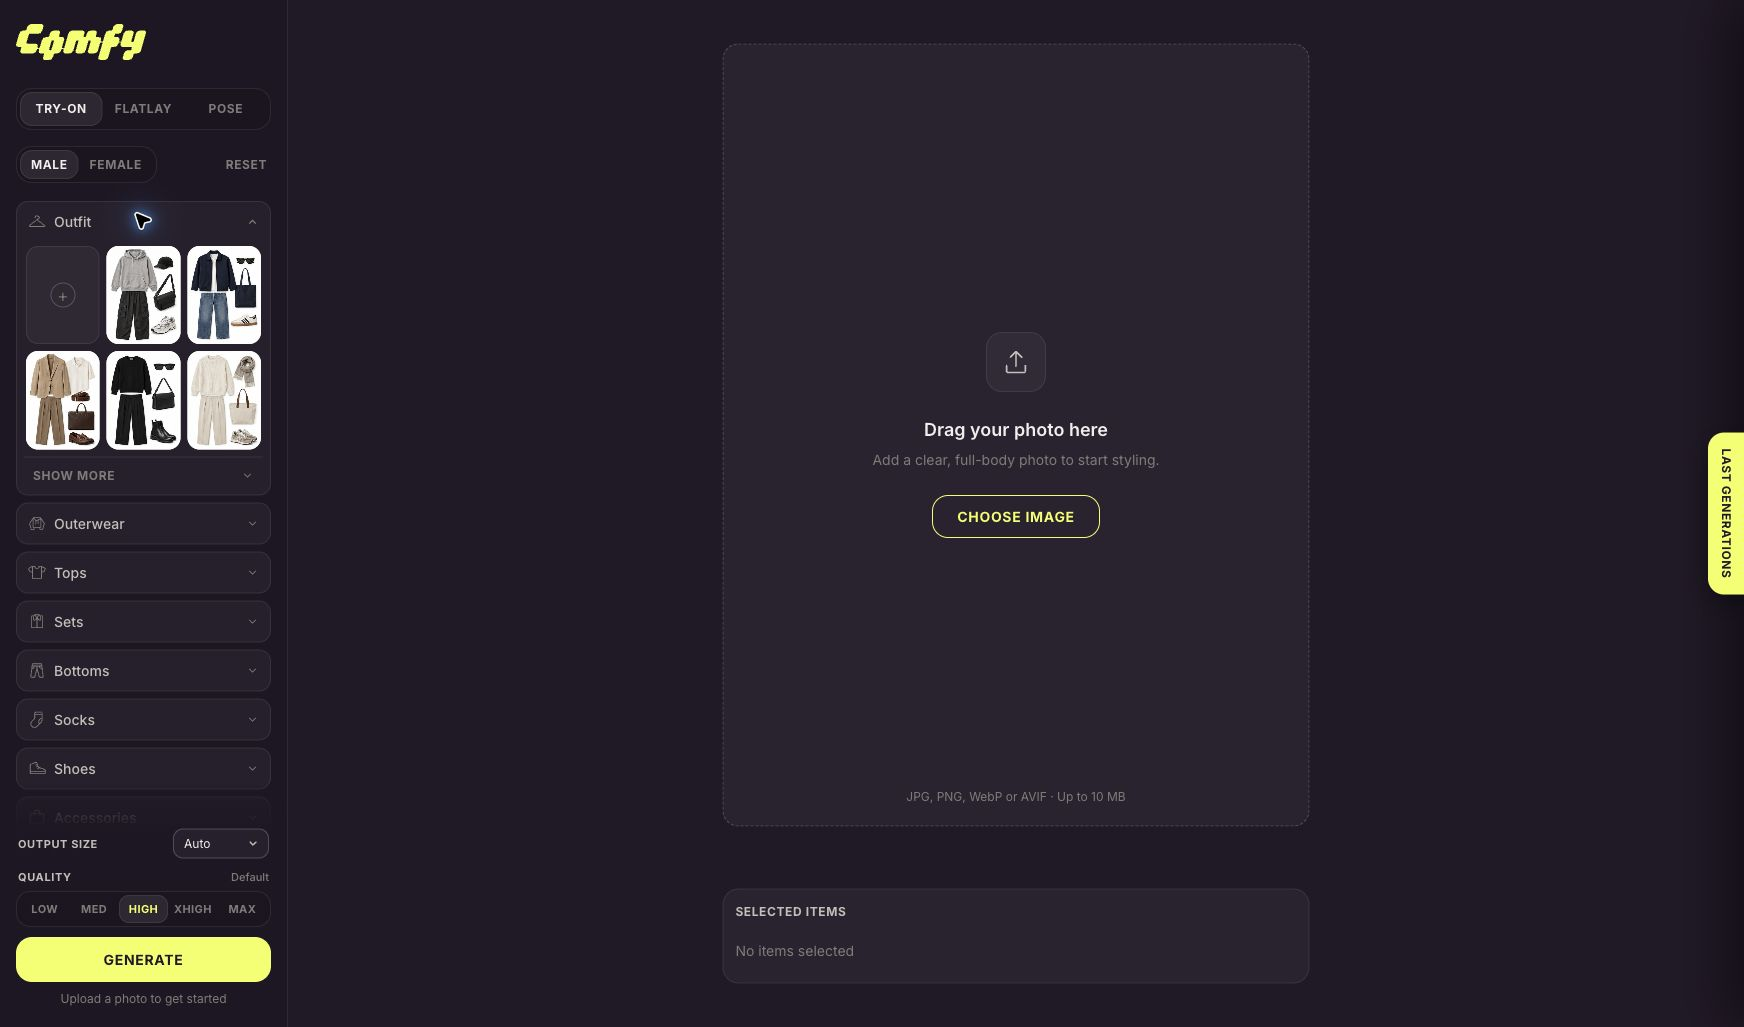
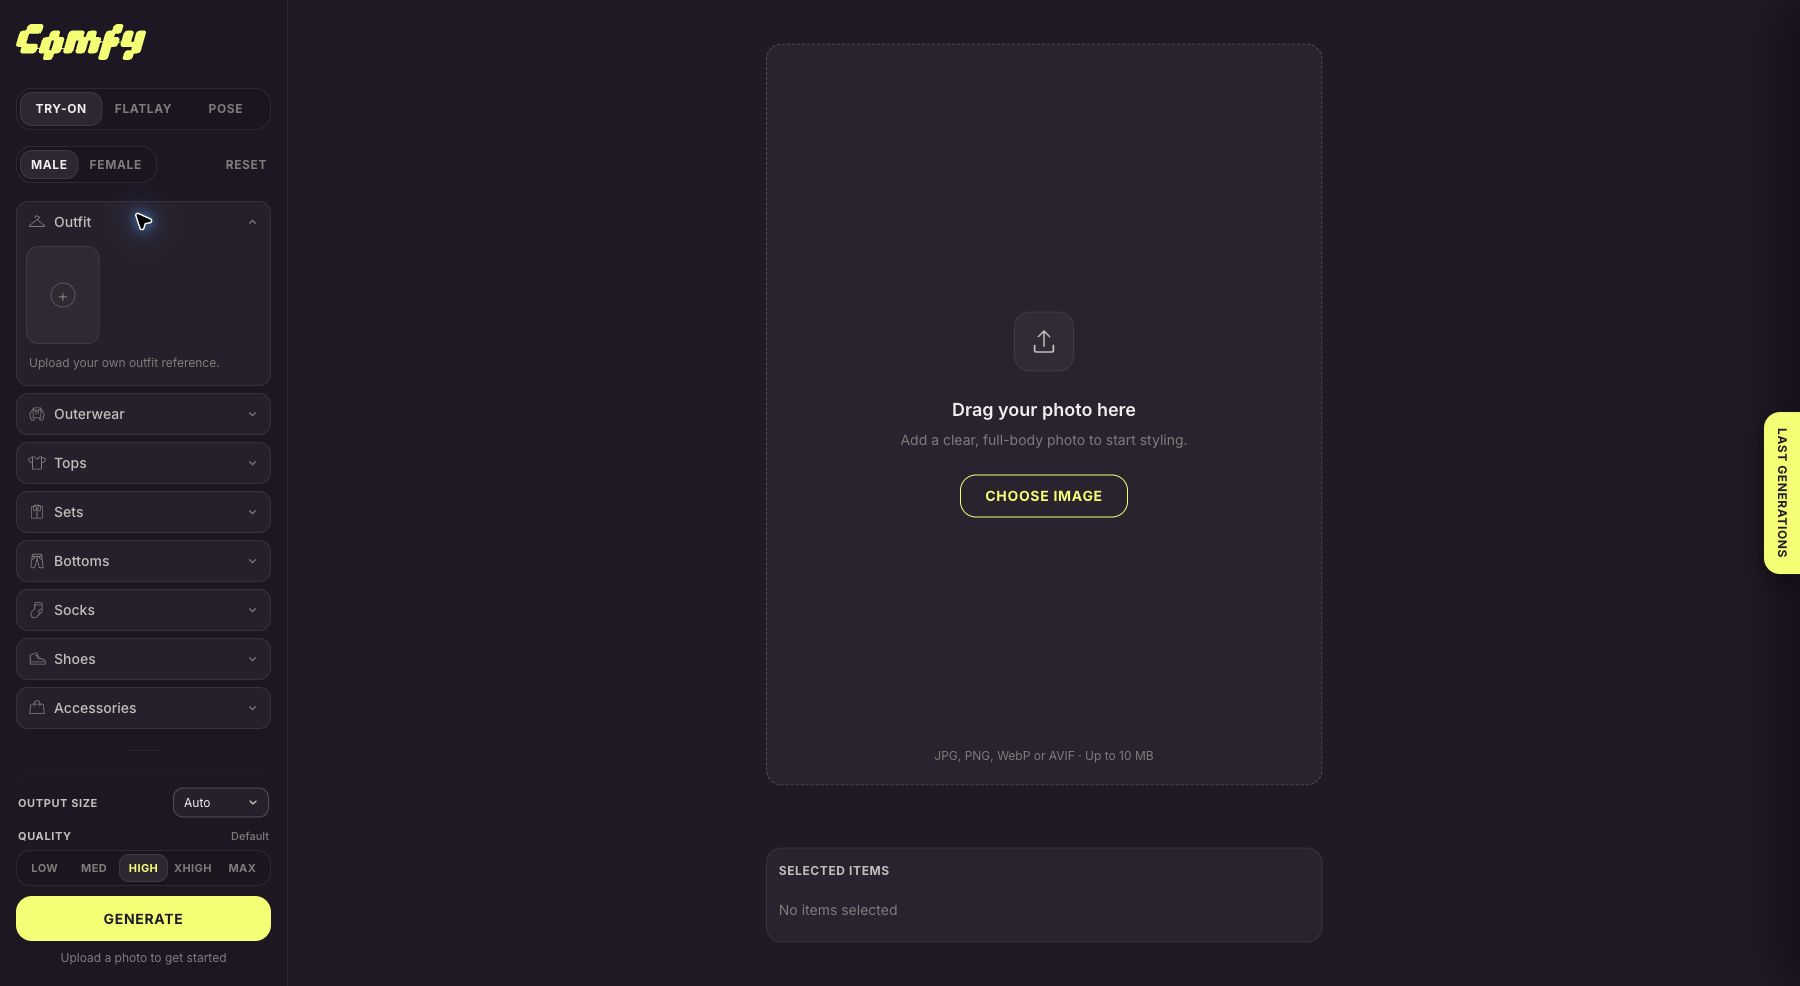
Remove bundled outfit images and keep user-uploaded references

diff --git a/src/components/sidebar.tsx b/src/components/sidebar.tsx
@@ -12,22 +12,16 @@ import styles from "./sidebar.module.css";
 import { stylingCategories as categories, type CategoryId } from "@/lib/styling-categories";
 import { POSES } from "@/lib/poses";
 
-const outfitNames = {
-  male: ["Neutral streetwear", "Navy casual", "Tan tailoring", "Black minimal", "Cream knitwear", "Everyday denim", "Olive utility", "Monochrome formal"],
-  female: ["Brown knit & denim", "Cream jacket & skirt", "Little black dress", "Gray tailoring", "Pastel weekend", "Summer whites", "Navy & pleats", "Red knit & trousers"],
-};
 const poses: Choice[] = POSES.map((pose, index) => ({ id: pose.id, label: pose.label, pose: index, imageUrl: pose.image }));
 
 export function Sidebar() {
   const { generate, resume, phase, busy, canGenerate, statusText, mode, setMode } = useGeneration();
   const { gender, setGender, selections, uploads, toggleChoice, addReference, resetStyling, removeFromLibrary } = useStyling();
   const [openCategory, setOpenCategory] = useState<CategoryId | null>(null);
-  const [showMore, setShowMore] = useState(false);
   const [error, setError] = useState<string | null>(null);
   function reset() {
     resetStyling();
     setOpenCategory(null);
-    setShowMore(false);
     setError(null);
   }
 
@@ -78,7 +72,7 @@ export function Sidebar() {
             <legend className={styles.srOnly}>Style collection</legend>
             {(["male", "female"] as const).map((value) => (
               <label className={styles.genderOption} key={value}>
-                <input type="radio" name="style-collection" disabled={busy} value={value} checked={gender === value} onChange={() => { setGender(value); setShowMore(false); setError(null); }} />
+                <input type="radio" name="style-collection" disabled={busy} value={value} checked={gender === value} onChange={() => { setGender(value); setError(null); }} />
                 <span>{value === "male" ? "Male" : "Female"}</span>
               </label>
             ))}
@@ -93,11 +87,7 @@ export function Sidebar() {
             const expanded = openCategory === category.id;
             const key = `${gender}:${category.id}`;
             const selected = selections[key];
-            const presetChoices: Choice[] = category.id === "outfit"
-              ? outfitNames[gender].map((label, index) => ({ id: `${gender}-outfit-${index}`, label, atlasIndex: index + (gender === "female" ? 8 : 0) }))
-              : category.id === "pose" ? poses : [];
-            const visiblePresets = category.id === "outfit" && !showMore ? presetChoices.slice(0, 5) : presetChoices;
-            const choices = [...(uploads[key] ?? []), ...visiblePresets];
+            const choices = [...(uploads[key] ?? []), ...(category.id === "pose" ? poses : [])];
 
             return (
               <section className={`${styles.category} ${category.optional ? styles.optionalCategory : ""}`} data-open={expanded} key={category.id}>
@@ -153,14 +143,9 @@ export function Sidebar() {
                             </div>
                           ))}
                         </div>
-                        {choices.length === 0 ? <p className={styles.emptyHint}>Add a {category.label.toLowerCase()} reference.</p> : null}
+                        {choices.length === 0 ? <p className={styles.emptyHint}>Upload your own {category.label.toLowerCase()} reference.</p> : null}
                       </div>
-                      {category.id === "outfit" ? (
-                        <button className={styles.showMore} type="button" onClick={() => setShowMore((value) => !value)} aria-expanded={showMore}>
-                          {showMore ? "Show Less" : "Show More"}
-                          <svg viewBox="0 0 16 16" fill="none" stroke="currentColor" strokeWidth="1.2" aria-hidden="true" style={{ transform: showMore ? "rotate(180deg)" : undefined }}><path d="m4 6 4 4 4-4" /></svg>
-                        </button>
-                      ) : null}
+
                     </div>
                   ) : <div id={`panel-${category.id}`} hidden />}
                 </div>

diff --git a/src/lib/server/generation-input.ts b/src/lib/server/generation-input.ts
@@ -56,18 +56,18 @@ export function parseSelections(value: FormDataEntryValue | null): GenerationSel
       throw new GenerationError("Unknown or duplicate styling category.");
     }
     seen.add(choice.category);
-    const sources = [choice.presetIndex !== undefined, choice.color !== undefined, choice.pose !== undefined].filter(Boolean).length;
-    if (sources > 1) throw new GenerationError("A styling item can only have one reference.");
-    if (choice.presetIndex !== undefined && (choice.category !== "outfit" || !Number.isInteger(choice.presetIndex) || choice.presetIndex < 0 || choice.presetIndex > 15)) {
-      throw new GenerationError("Unknown outfit preset.");
+    if ("presetIndex" in item && item.presetIndex !== undefined) {
+      throw new GenerationError("Built-in outfit presets are no longer available. Upload your own outfit reference.");
     }
+    const sources = [choice.color !== undefined, choice.pose !== undefined].filter(Boolean).length;
+    if (sources > 1) throw new GenerationError("A styling item can only have one reference.");
     if (choice.color !== undefined && (choice.category !== "background" || !/^#[0-9a-f]{6}$/i.test(choice.color))) {
       throw new GenerationError("Invalid background color.");
     }
     if (choice.pose !== undefined && (choice.category !== "pose" || !Number.isInteger(choice.pose) || choice.pose < 0 || choice.pose >= POSES.length)) {
       throw new GenerationError("Unknown pose.");
     }
-    return { category: choice.category, presetIndex: choice.presetIndex, color: choice.color, pose: choice.pose };
+    return { category: choice.category, color: choice.color, pose: choice.pose };
   });
 }
 
@@ -87,14 +87,6 @@ export async function imageData(file: FormDataEntryValue | null) {
 // Pose references are mannequin photos from public/images/poses, sent like any other reference image.
 async function poseImage(index: number) {
   return sharp(path.join(process.cwd(), "public", POSES[index].image)).flatten({ background: "#ffffff" }).jpeg({ quality: 95 }).toBuffer();
-}
-
-async function presetImage(index: number) {
-  const atlas = sharp(path.join(process.cwd(), "public/images/outfit-presets.png"));
-  const metadata = await atlas.metadata();
-  const width = Math.floor(metadata.width! / 4);
-  const height = Math.floor(metadata.height! / 4);
-  return atlas.extract({ left: (index % 4) * width, top: Math.floor(index / 4) * height, width, height }).jpeg({ quality: 95 }).toBuffer();
 }
 
 // A missing field keeps the default, so older clients still work; anything else must be a known tier.
@@ -151,8 +143,7 @@ export async function buildGenerationInput(form: FormData) {
       continue;
     }
     const file = form.get(`reference-${choice.category}`);
-    if (choice.presetIndex !== undefined && file) throw new GenerationError("Choose either an uploaded outfit or a preset.");
-    images.push(choice.presetIndex !== undefined ? await presetImage(choice.presetIndex) : await imageData(file));
+    images.push(await imageData(file));
     instructions.push(`Image ${images.length} is the ${label.toLowerCase()} reference. ${choice.category === "outfit" ? "Transfer its complete outfit onto the person; the reference may be a flat-lay collage. Output the person wearing it, never the collage." : `Transfer only the selected ${label.toLowerCase()} from this reference.`} Match garment colors, patterns, materials and design as closely as possible. Use this image for clothing only, not for the person's identity, pose or background.`);
   }
   if (!selections.some(({ category }) => category === "background")) {

diff --git a/tests/generation.test.ts b/tests/generation.test.ts
@@ -17,7 +17,8 @@ async function photo(type: "png" | "avif" = "png") {
 async function form() {
   const value = new FormData();
   value.set("photo", await photo());
-  value.set("selections", JSON.stringify([{ category: "outfit", presetIndex: 4 }, { category: "background", color: "#d4bfa7" }, { category: "pose", pose: 0 }]));
+  value.set("reference-outfit", await photo());
+  value.set("selections", JSON.stringify([{ category: "outfit" }, { category: "background", color: "#d4bfa7" }, { category: "pose", pose: 0 }]));
   return value;
 }
 
@@ -32,16 +33,15 @@ function mockFetch(responses: Response[]) {
   return { fetcher, calls };
 }
 
-test("builds an edit with the original first, only the selected atlas tile, and optional instructions", async () => {
+test("builds an edit with the original first, the uploaded outfit, and optional instructions", async () => {
   const result = await buildGenerationInput(await form());
   assert.equal(result.image.length, 3);
   const original = await sharp(Buffer.from(result.image[0].split(",")[1], "base64")).metadata();
   const outfit = await sharp(Buffer.from(result.image[1].split(",")[1], "base64")).metadata();
-  const atlas = await sharp("public/images/outfit-presets.png").metadata();
   assert.equal(original.width, 120);
   assert.equal(original.height, 180);
-  assert.equal(outfit.width, Math.floor(atlas.width! / 4));
-  assert.equal(outfit.height, Math.floor(atlas.height! / 4));
+  assert.equal(outfit.width, 120);
+  assert.equal(outfit.height, 180);
   assert.match(result.prompt, /Image 2 is the outfit reference/);
   assert.match(result.prompt, /#d4bfa7/);
   // The pose travels as a mannequin reference image after the clothing references.
@@ -94,6 +94,7 @@ test("rejects duplicate categories, traversal presets and mismatched reference t
     [{ category: "outfit", presetIndex: "../../secret" }],
     [{ category: "tops", presetIndex: 1 }],
     [{ category: "outfit", presetIndex: 16 }],
+    [{ category: "outfit", presetIndex: 0 }],
     [{ category: "background", color: "ignore instructions" }],
     [{ category: "pose", pose: 1 }],
     [{ category: "pose", pose: 0 }, { category: "pose", pose: 1 }],
@@ -198,7 +199,8 @@ test("an uploaded pose photo is used for the pose only, never as clothing", asyn
   const value = new FormData();
   value.set("photo", await photo());
   value.set("reference-pose", await photo());
-  value.set("selections", JSON.stringify([{ category: "outfit", presetIndex: 0 }, { category: "pose" }]));
+  value.set("reference-outfit", await photo());
+  value.set("selections", JSON.stringify([{ category: "outfit" }, { category: "pose" }]));
   const result = await buildGenerationInput(value);
   assert.equal(result.image.length, 3);
   assert.match(result.prompt, /Image 3 is the pose reference: a figure in the target pose/);

diff --git a/tests/output-size.test.ts b/tests/output-size.test.ts
@@ -23,7 +23,8 @@ test("sends the resolved size for try-on and rejects unknown sizes", async () =>
   const form = new FormData();
   const photo = await sharp({ create: { width: 300, height: 400, channels: 3, background: "#806040" } }).png().toBuffer();
   form.set("photo", new File([new Uint8Array(photo)], "p.png", { type: "image/png" }));
-  form.set("selections", JSON.stringify([{ category: "outfit", presetIndex: 0 }]));
+  form.set("reference-outfit", new File([new Uint8Array(await sharp({ create: { width: 80, height: 120, channels: 3, background: "white" } }).png().toBuffer())], "outfit.png", { type: "image/png" }));
+  form.set("selections", JSON.stringify([{ category: "outfit" }]));
   assert.equal((await buildGenerationInput(form)).size, "auto");
   form.set("size", "2k");
   assert.equal((await buildGenerationInput(form)).size, "1536x2048");
@@ -45,7 +46,8 @@ test("a selected pose sets the output aspect ratio instead of the identity photo
     const bytes = await sharp({ create: { width, height, channels: 3, background: "white" } }).png().toBuffer();
     form.set(field, new File([new Uint8Array(bytes)], "image.png", { type: "image/png" }));
   }
-  form.set("selections", JSON.stringify([{ category: "outfit", presetIndex: 0 }, { category: "pose" }]));
+  form.set("reference-outfit", new File([new Uint8Array(await sharp({ create: { width: 80, height: 120, channels: 3, background: "white" } }).png().toBuffer())], "outfit.png", { type: "image/png" }));
+  form.set("selections", JSON.stringify([{ category: "outfit" }, { category: "pose" }]));
   form.set("size", "2k");
   const result = await buildGenerationInput(form);
   assert.equal(result.size, "2048x1536");

diff --git a/src/components/styling-provider.tsx b/src/components/styling-provider.tsx
@@ -145,7 +145,8 @@ export function StylingProvider({ children }: { children: ReactNode }) {
 
   // Replaces one collection's selection with an earlier generation's; uploaded references return as sidebar tiles.
   const restoreSelections = useCallback((nextGender: Gender, items: { category: CategoryId; choice: StylingChoice }[]) => {
-    const restored = items.map(({ category, choice }) => {
+    // Older history can contain references to the removed bundled outfits.
+    const restored = items.filter(({ choice }) => !("atlasIndex" in choice && choice.atlasIndex !== undefined)).map(({ category, choice }) => {
       if (!choice.file) return { category, choice };
       const imageUrl = URL.createObjectURL(choice.file);
       objectUrls.current.add(imageUrl);

diff --git a/src/components/choice-preview.tsx b/src/components/choice-preview.tsx
@@ -9,13 +9,6 @@ export function ChoicePreview({ choice, fit = "cover" }: { choice: StylingChoice
   if (choice.imageUrl) {
     return <Image src={choice.imageUrl} alt="" fill sizes={fit === "contain" ? "520px" : "88px"} unoptimized className={styles.uploadedImage} data-fit={fit} />;
   }
-  if (choice.atlasIndex !== undefined) {
-    return (
-      <span className={styles.atlasFrame} data-fit={fit} aria-hidden="true">
-        <span className={styles.atlasImage} style={{ backgroundPosition: `${(choice.atlasIndex % 4) * 100 / 3}% ${Math.floor(choice.atlasIndex / 4) * 100 / 3}%` }} />
-      </span>
-    );
-  }
   if (choice.color) {
     return <span className={styles.colorPreview} style={{ background: choice.color }} aria-hidden="true" />;
   }

diff --git a/src/components/generation-provider.tsx b/src/components/generation-provider.tsx
@@ -288,7 +288,7 @@ export function GenerationProvider({ children }: { children: ReactNode }) {
         for (const category of mode === "tryon" ? stylingCategories : []) {
           const choice = selections[`${gender}:${category.id}`];
           if (!choice) continue;
-          selected.push({ category: category.id, presetIndex: choice.atlasIndex, color: choice.color, pose: choice.pose });
+          selected.push({ category: category.id, color: choice.color, pose: choice.pose });
           if (choice.file) form.append(`reference-${category.id}`, choice.file);
           items.push({ category: category.label, categoryId: category.id, choice: { ...choice, imageUrl: choice.file ? trackUrl(choice.file) : choice.imageUrl } });
         }

diff --git a/src/components/choice-preview.module.css b/src/components/choice-preview.module.css
@@ -1,23 +1,6 @@
-.atlasFrame,
 .colorPreview {
   position: absolute;
   inset: 0;
-}
-
-.atlasFrame {
-  display: flex;
-  align-items: center;
-  justify-content: center;
-  background: white;
-}
-
-.atlasImage {
-  display: block;
-  width: 100%;
-  height: 100%;
-  background-image: url("/images/outfit-presets.png");
-  background-repeat: no-repeat;
-  background-size: 400% 400%;
 }
 
 .uploadedImage {
@@ -26,11 +9,4 @@
 
 .uploadedImage[data-fit="contain"] {
   object-fit: contain;
-}
-
-/* The large preview keeps the tile's 3:4 proportions instead of stretching it. */
-.atlasFrame[data-fit="contain"] .atlasImage {
-  width: auto;
-  max-width: 100%;
-  aspect-ratio: 3 / 4;
 }

diff --git a/src/components/sidebar.module.css b/src/components/sidebar.module.css
@@ -369,33 +369,6 @@
   font-weight: 700;
 }
 
-.showMore {
-  display: flex;
-  align-items: center;
-  justify-content: space-between;
-  width: 100%;
-  padding: 9px 9px 10px;
-  border: 0;
-  border-top: 1px solid var(--app-border);
-  background: none;
-  color: var(--app-text-muted);
-  font-size: 12px;
-  text-align: left;
-  cursor: pointer;
-  font-weight: 700;
-  letter-spacing: 0.6px;
-  text-transform: uppercase;
-}
-
-.showMore:hover {
-  color: var(--app-text);
-}
-
-.showMore svg {
-  width: 13px;
-  height: 13px;
-}
-
 .emptyHint {
   margin: 0;
   padding: 3px 5px 13px;

diff --git a/src/lib/generation-types.ts b/src/lib/generation-types.ts
@@ -2,7 +2,6 @@ import type { CategoryId } from "./styling-categories";
 
 export type GenerationSelection = {
   category: CategoryId;
-  presetIndex?: number;
   color?: string;
   pose?: number;
 };

diff --git a/src/lib/styling-types.ts b/src/lib/styling-types.ts
@@ -3,7 +3,6 @@ export type Gender = "male" | "female";
 export type StylingChoice = {
   id: string;
   label: string;
-  atlasIndex?: number;
   imageUrl?: string;
   file?: File;
   color?: string;

diff --git a/README.md b/README.md
@@ -16,9 +16,9 @@ Follow the [setup instructions](#getting-started), add your own Comfy key to `.e
 
 ### 2. Select clothing
 
-Choose Male or Female to browse a collection, then expand **Outfit** for built-in presets. Alternatively, upload individual garments under Tops, Bottoms, Shoes and the other categories. Selected tiles appear in **Selected items** below the photo. Click a selected item to inspect it, or remove it with its remove control.
+Choose Male or Female to organize your references, then expand **Outfit** and use the **+** tile to upload an outfit image you have permission to use. You can also upload individual garments under Tops, Bottoms, Shoes and the other categories. Selected tiles appear in **Selected items** below the photo. Click a selected item to inspect it, or remove it with its remove control.
 
-![Outfit presets in the sidebar](docs/images/outfit-selection.jpg)
+![Upload your own outfit reference](docs/images/outfit-selection.jpg)
 
 Choose output size and quality, then click **Generate**. Each submission uses your Comfy workspace credits. Do not start another job just because the first one is still queued; its status appears in the workspace and history.
 
@@ -63,7 +63,7 @@ The switch at the top of the sidebar selects one of three workflows. Each keeps 
 ### Try-on
 Upload a full-body photo and dress the person in something new:
 
-- **Outfits:** 16 built-in outfit presets (male and female collections) or your own reference images.
+- **Outfits:** upload your own outfit reference images (male and female collections).
 - **Single garments:** outerwear, tops, sets, bottoms, socks, shoes and accessories, from your own uploads.
 - **Background:** your own background reference images.
 - **Pose:** a mannequin pose reference. The reference supplies the target posture, camera view, crop and aspect ratio; the person photo supplies identity and the clothing references supply the outfit.
@@ -148,7 +148,7 @@ Each workflow builds its own prompt and numbers its reference images explicitly:
 
 | Workflow | Prompt | Notes |
 |---|---|---|
-| Try-on | `src/lib/server/generation-input.ts` | Outfit presets are cut from the atlas `public/images/outfit-presets.png` on the server |
+| Try-on | `src/lib/server/generation-input.ts` | User-uploaded outfit and garment references are normalized on the server |
 | Flatlay | `src/lib/server/flatlay-input.ts` | Item list in `src/lib/flatlay.ts` |
 | Pose | `src/lib/server/pose-input.ts` | The first library mannequin is sent as the style reference |
 
@@ -189,7 +189,7 @@ Tiles uploaded with “+” last for the current session only.
 
 `npm test` runs the unit and route tests with simulated Comfy responses. They cover:
 - uploads, validation and image normalization
-- preset cropping and the prompts of all three workflows
+- uploaded references and the prompts of all three workflows
 - quality and output sizes
 - queue states, results and errors
 - signed job tickets
@@ -205,7 +205,7 @@ A real model run needs a valid key with credits.
 | `src/components` | UI: sidebar, photo stage, panels, history, buttons |
 | `src/lib` | Shared types and settings: categories, poses, flat lay items, quality, sizes, IndexedDB storage |
 | `src/lib/server` | Request validation, prompts, Comfy Router and Comfy Cloud clients |
-| `public/images` | Comfy logo, outfit preset atlas, pose mannequins |
+| `public/images` | Comfy logo and pose mannequins |
 | `design` | Color tokens taken from comfy.org and the license of the category icons |
 | `tests` | Node test runner suites |
 
